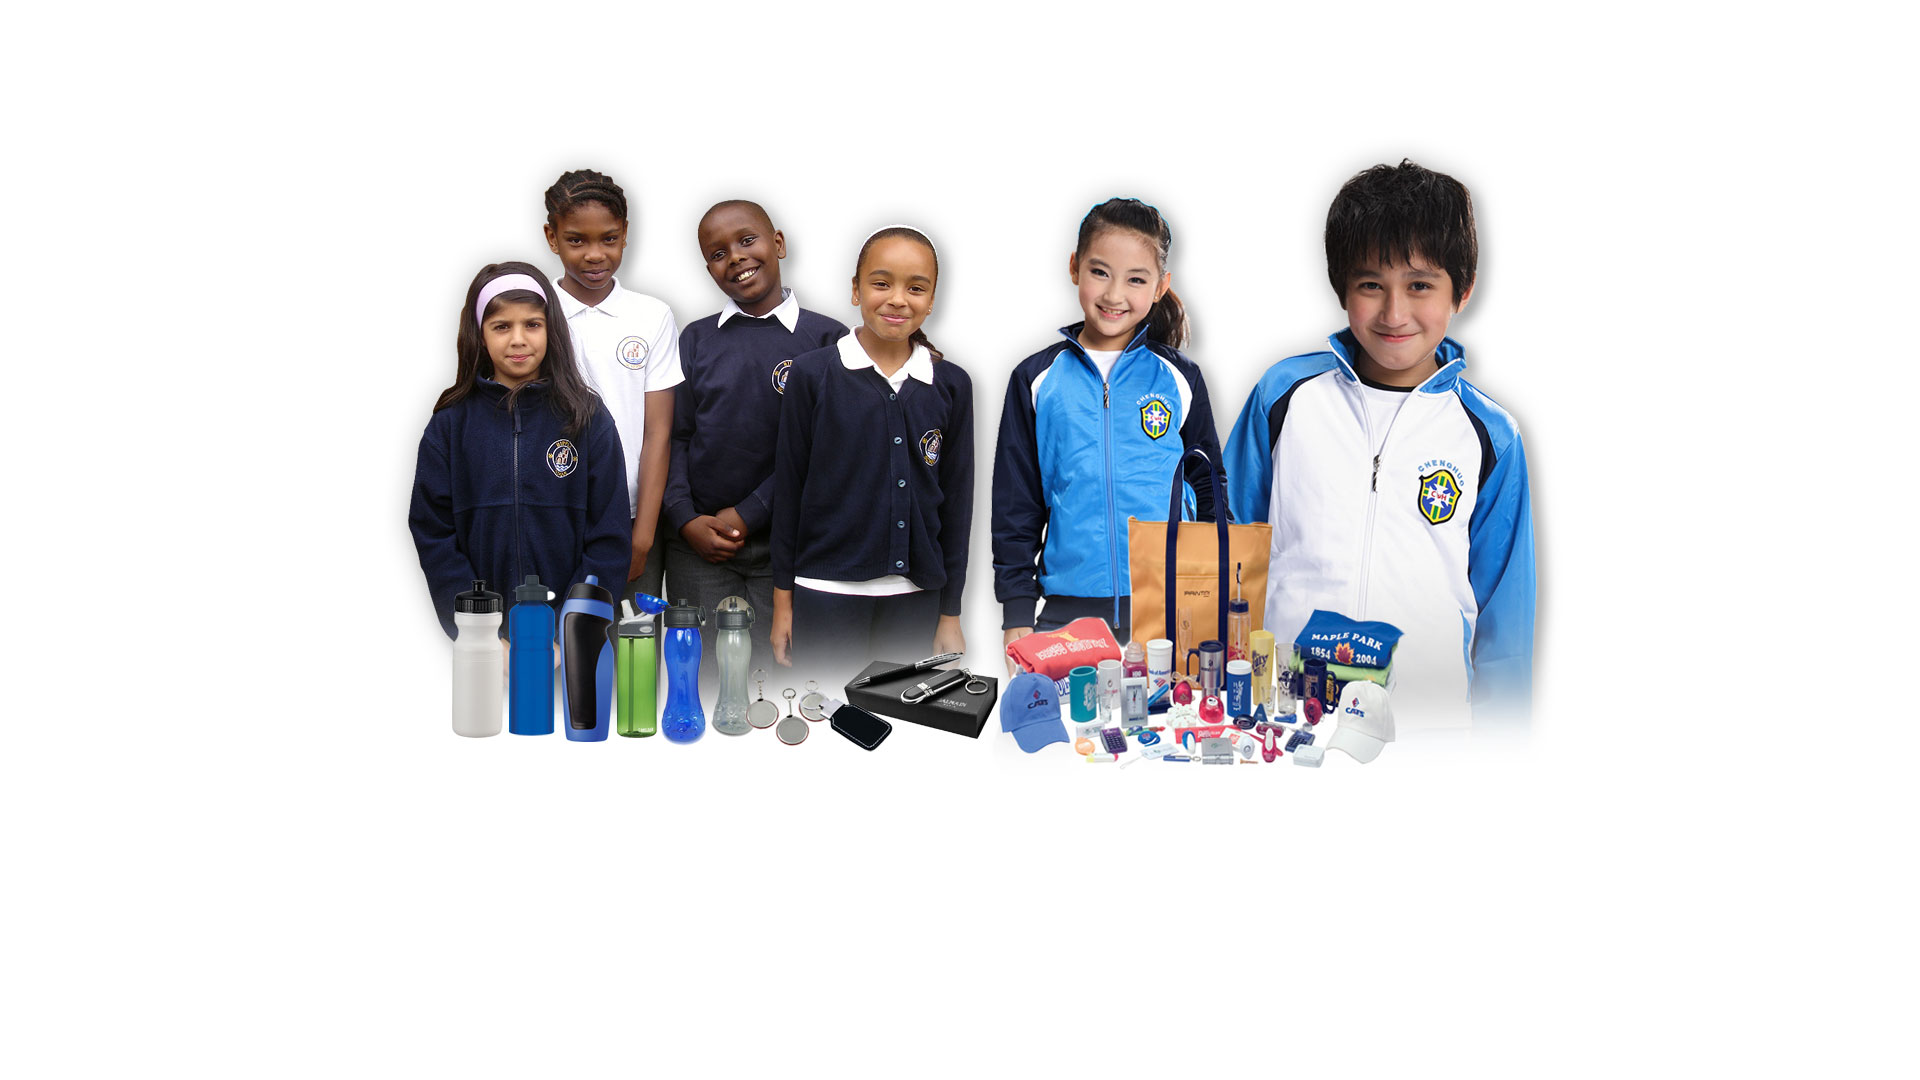
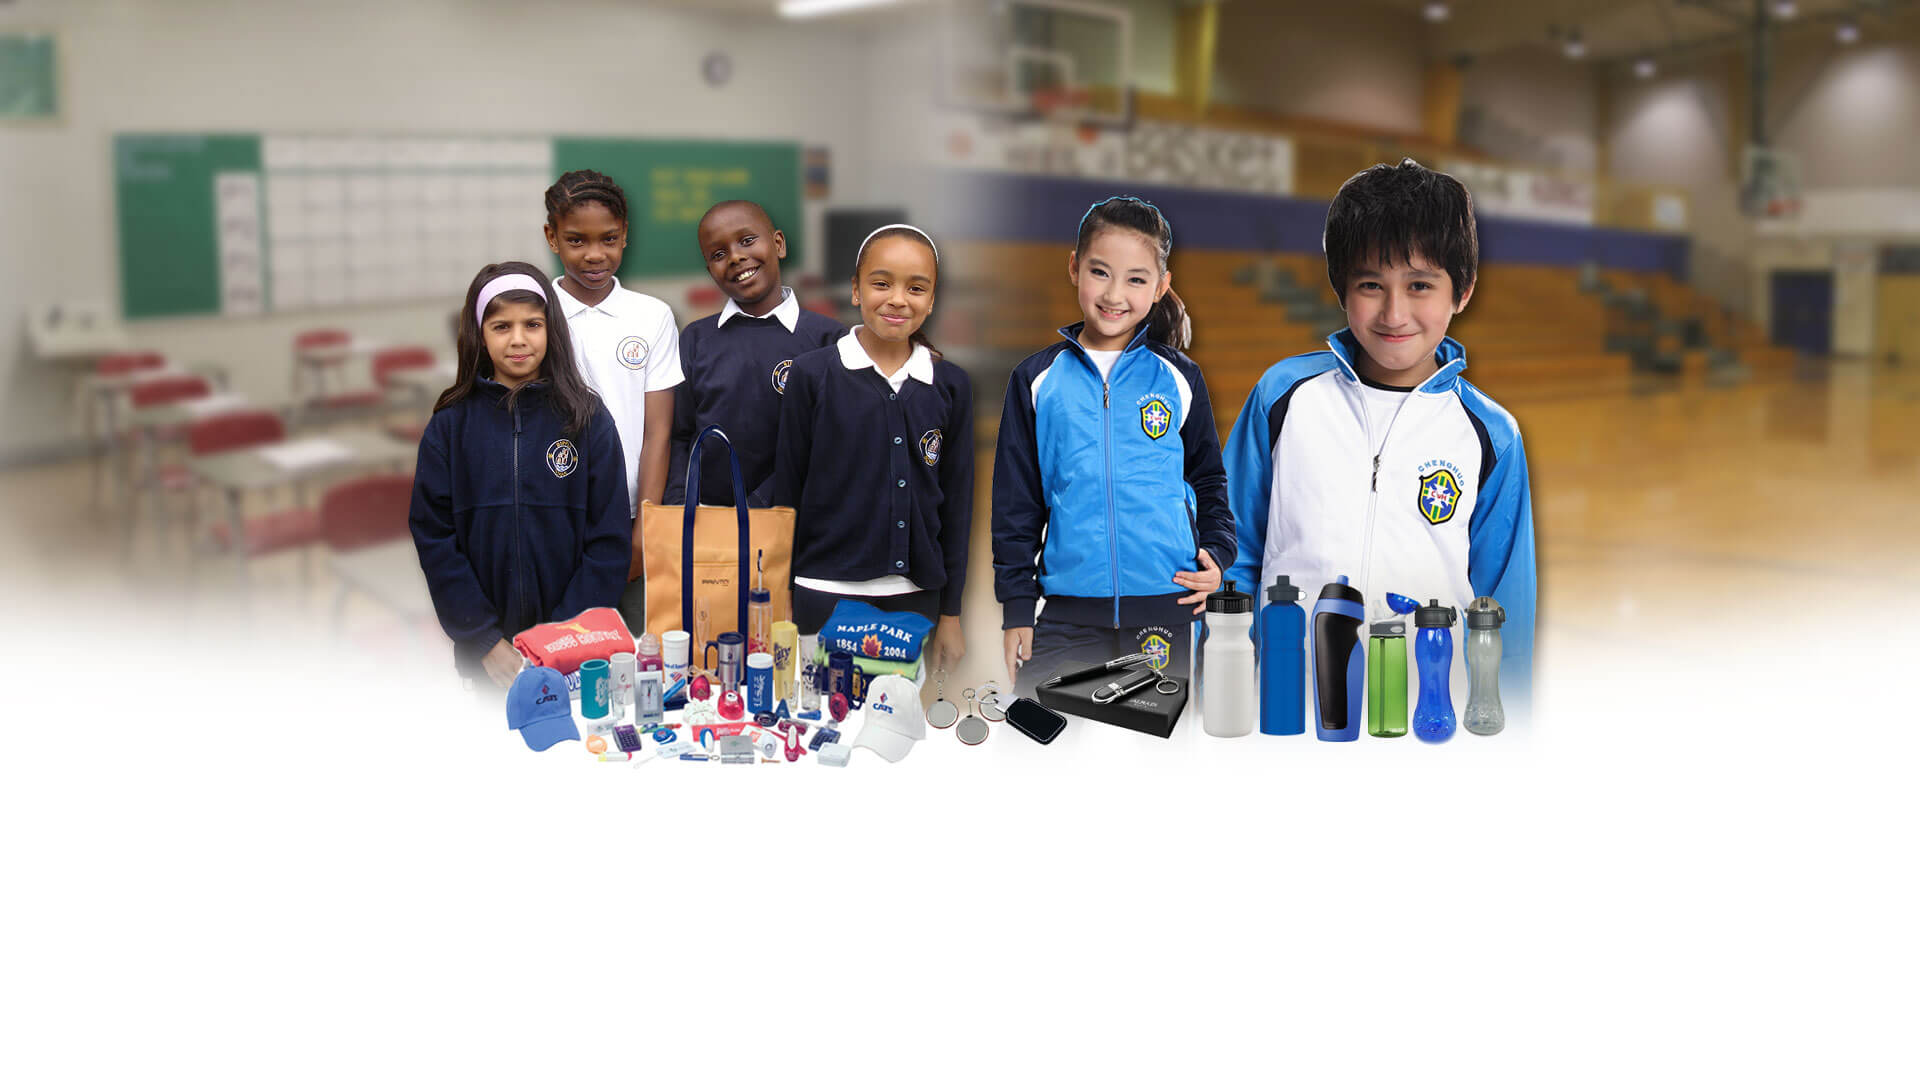
Fixed site-inner full width

diff --git a/css/custom.css b/css/custom.css
@@ -305,7 +305,7 @@ input[type="search"]::-webkit-search-results-button {
 .site-inner,
 .wrap {
 	margin: 0 auto;
-	max-width: 1200px;
+	max-width: 960px;
 }
 
 .site-inner {
@@ -314,6 +314,7 @@ input[type="search"]::-webkit-search-results-button {
 }
 .home .site-inner {
 	height: auto;
+	max-width: 100%;
 }
 
 /* ## Column Widths and Positions
@@ -634,7 +635,7 @@ img.alignright,
 .title-area {
 	float: left;
 	padding: 0;
-	width: 360px;
+	width: 250px;
 }
 
 .header-full-width .title-area {
@@ -690,7 +691,7 @@ img.alignright,
 	/* background: rgba(51,51,51, .5); */
 	float: right;
 	text-align: right;
-	width: 840px;
+	width: 650px;
 }
 
 
@@ -1152,17 +1153,8 @@ li.comment {
     left: 0;
     width: 100%;
 }
-.home-slider::after {
-    content: "";
-    position: fixed;
-    bottom: 0;
-    z-index: 99999;
-    width: 100%;
-    height: 50px;
-    background: #fff;
-}
-.orbit-container .orbit-prev,
-.orbit-container .orbit-next {
+.home .orbit-container .orbit-prev,
+.home .orbit-container .orbit-next {
 	display: inline-block;
 	top: 25%;
 }
@@ -1182,15 +1174,22 @@ li.comment {
     transition: all .2s ease-in-out;
 }
 .orbit-content .entry-title {
-	color: #fff;
-	font-size: 40px;
-	text-shadow: -2px 2px 5px #333;
+	color: rgb(71, 193, 244);
+	font-size: 50px;
+
+	text-shadow: -3px 2px 5px #333;
 	letter-spacing: 1px;
-	font-weight: 700;
+	font-weight: 400;
 }
-.orbit-bullets-container {
+.home .orbit-bullets-container {
 	position: absolute;
 	top: 25%;
+	width: 100%;
+}
+.orbit-bullets-container {
+	position: relative;
+	top: 0;
+
 	width: 100%;
 }
 .orbit-bullets li {
@@ -1575,6 +1574,21 @@ li.comment {
 	.orbit-bullets-container {
 		top: 15%;
 	}
+	.home-slider::after {
+		content: "";
+		position: fixed;
+		bottom: 0;
+		z-index: 99999;
+		width: 100%;
+		height: 50px;
+		background: -moz-linear-gradient(top,  rgba(255,255,255,0) 0%, rgba(255,255,255,0.82) 37%, rgba(255,255,255,1) 60%, rgba(255,255,255,1) 97%); /* FF3.6+ */
+		background: -webkit-gradient(linear, left top, left bottom, color-stop(0%,rgba(255,255,255,0)), color-stop(37%,rgba(255,255,255,0.82)), color-stop(60%,rgba(255,255,255,1)), color-stop(97%,rgba(255,255,255,1))); /* Chrome,Safari4+ */
+		background: -webkit-linear-gradient(top,  rgba(255,255,255,0) 0%,rgba(255,255,255,0.82) 37%,rgba(255,255,255,1) 60%,rgba(255,255,255,1) 97%); /* Chrome10+,Safari5.1+ */
+		background: -o-linear-gradient(top,  rgba(255,255,255,0) 0%,rgba(255,255,255,0.82) 37%,rgba(255,255,255,1) 60%,rgba(255,255,255,1) 97%); /* Opera 11.10+ */
+		background: -ms-linear-gradient(top,  rgba(255,255,255,0) 0%,rgba(255,255,255,0.82) 37%,rgba(255,255,255,1) 60%,rgba(255,255,255,1) 97%); /* IE10+ */
+		background: linear-gradient(to bottom,  rgba(255,255,255,0) 0%,rgba(255,255,255,0.82) 37%,rgba(255,255,255,1) 60%,rgba(255,255,255,1) 97%); /* W3C */
+		filter: progid:DXImageTransform.Microsoft.gradient( startColorstr='#00ffffff', endColorstr='#ffffff',GradientType=0 ); /* IE6-9 */
+	}
 
 }
 
@@ -1582,4 +1596,8 @@ li.comment {
 	.thumbnail {
 		height: 120px;
 	}
+}
+
+.orbit-container .orbit-slide-number {
+    color: #333;
 }

diff --git a/js/spartan.js b/js/spartan.js
@@ -3,8 +3,11 @@ jQuery(document).ready(function($) {
 	var images = ['solar-energy.jpg', 'medical-packs.jpg', 'oem.jpg'];
 	var doc_height = $(document).height();
 
+	var current_url = window.location.protocol + "//" + window.location.host + "/";
 	// Development
-	$.backstretch(srh_custom.template_url + '/images/' + images[Math.floor(Math.random() * images.length)]);
+	// if( !current_url ) {
+		$.backstretch(srh_custom.template_url + '/images/' + images[Math.floor(Math.random() * images.length)]);
+	// }
 
 	// Production
 	// $.backstretch(srh_custom.template_url + '/2014/wp-content/uploads/2015/01/' + images[Math.floor(Math.random() * images.length)]);
@@ -40,14 +43,14 @@ jQuery(document).ready(function($) {
 		var window_scroll = $(window).scrollTop();
 
 		if( window_scroll > site_header ) {
-			$('.orbit-content .column, .orbit-container .orbit-prev, .orbit-container .orbit-next, .orbit-bullets').css('opacity', '0');
+			$('.home .orbit-content .column, .home .orbit-container .orbit-prev, .home .orbit-container .orbit-next, .home .orbit-bullets').css('opacity', '0');
 
 			if( !$('.orbit-timer').hasClass('paused') ) {
 				$('.orbit-timer').click();
 			}
 			animate_menu_in();
 		} else {
-			$('.orbit-content .column, .orbit-container .orbit-prev, .orbit-container .orbit-next, .orbit-bullets').css('opacity', '1');
+			$('.home .orbit-content .column, .home .orbit-container .orbit-prev, .home .orbit-container .orbit-next, .home .orbit-bullets').css('opacity', '1');
 
 			if( $('.orbit-timer').hasClass('paused') ) {
 				$('.orbit-timer').click();

diff --git a/home.php b/home.php
@@ -32,17 +32,17 @@ function srh_slider() {
 		  	<div class="wrap row">
 			    <div class="orbit-content large-12 column">
 			    	<div class="row">
-			    		<div class="large-6 column">
+			    		<div class="large-12 column">
 			    			<h4 class="entry-title">Solar and Renewable Energy</h4>
 			    		</div>
 			    	</div>
 			    </div>		  		
 		  	</div>
-		    <div class="show-for-large-up images slide-1"></div>
-		    <div class="show-for-small-up images slide-1-medium">
+		    <div class="show-for-medium-up images slide-1"></div>
+		    <div class="show-for-small-only images slide-1-medium">
 		    	<img src="<?php echo get_bloginfo('stylesheet_directory'); ?>/images/slide-1-medium.jpg" alt="slide 1" />
 		    </div>
-		    <div class="show-for-small-only images slide-1-small"></div>
+		    <!-- <div class="show-for-small-only images slide-1-small"></div> -->
 		    <!-- <img src="<?php echo get_bloginfo('stylesheet_directory'); ?>/images/Solar-and-Renewable-Energy.jpg" alt="slide 1" /> -->
 		  </li>
 
@@ -50,14 +50,14 @@ function srh_slider() {
 		  	<div class="wrap row">
 			    <div class="orbit-content large-12 column">
 			    	<div class="row">
-			    		<div class="large-6 column">
+			    		<div class="large-12 column">
 			    			<h4 class="entry-title">Medical Consumable</h4>
 			    		</div>
 			    	</div>
 			    </div>		  		
 		  	</div>
-		    <div class="show-for-large-up images slide-2"></div>
-		    <div class="show-for-small-up images slide-2-medium">
+		    <div class="show-for-medium-up images slide-2"></div>
+		    <div class="show-for-small-only images slide-2-medium">
 		    	<img src="<?php echo get_bloginfo('stylesheet_directory'); ?>/images/slide-2-medium.jpg" alt="slide 2" />
 		    </div>
 		    <!-- <div class="show-for-small-only images slide-2-small"></div> -->
@@ -68,14 +68,14 @@ function srh_slider() {
 		  	<div class="wrap row">
 			    <div class="orbit-content large-12 column">
 			    	<div class="row">
-			    		<div class="large-6 column">
+			    		<div class="large-12 column">
 			    			<h4 class="entry-title">Product Sourcing and OEM</h4>
 			    		</div>
 			    	</div>
 			    </div>		  		
 		  	</div>
-		    <div class="show-for-large-up images slide-3"></div>
-		    <div class="show-for-small-up images slide-3-medium">
+		    <div class="show-for-medium-up images slide-3"></div>
+		    <div class="show-for-small-only images slide-3-medium">
 		    	<img src="<?php echo get_bloginfo('stylesheet_directory'); ?>/images/slide-3-medium.jpg" alt="slide 3" />
 		    </div>
 		    <!-- <div class="show-for-small-only images slide-3-small"></div> -->
@@ -136,7 +136,7 @@ function srh_custom_loop() {
 
 	<!-- Set 1 -->
 	<div class="featured-thumbnails row first-set">
-		<div id="about-us" class="large-4 columns">
+		<div id="about-us" class="medium-4 columns">
 			<!-- <div> -->
 				<div class="thumbnail">
 					<!-- Development -->
@@ -149,7 +149,7 @@ function srh_custom_loop() {
 				<h4 class="p-caption">About us</h4>
 			<!-- </div> -->
 		</div>
-		<div id="solar" class="large-4 columns">
+		<div id="solar" class="medium-4 columns">
 				<div class="thumbnail">
 
 					<!-- Development -->
@@ -160,7 +160,7 @@ function srh_custom_loop() {
 				</div>
 			<h4 class="p-caption">Solar and Renewable Energy</h4>
 		</div>
-		<div id="medical" class="large-4 columns">
+		<div id="medical" class="medium-4 columns">
 				<div class="thumbnail">
 
 					<!-- Development -->
@@ -174,7 +174,7 @@ function srh_custom_loop() {
 	</div>
 	<!-- Set 2 -->
 	<div class="featured-thumbnails row secont-set">
-		<div id="sourcing" class="large-4 columns">
+		<div id="sourcing" class="medium-4 columns">
 			<!-- <div> -->
 				<div class="thumbnail">
 
@@ -188,7 +188,7 @@ function srh_custom_loop() {
 				<h4 class="p-caption">Product Sourcing and OEM</h4>
 			<!-- </div> -->
 		</div>
-		<div id="contact" class="large-4 columns">
+		<div id="contact" class="medium-4 columns">
 				<div class="thumbnail">
 
 					<!-- Development -->
@@ -199,7 +199,7 @@ function srh_custom_loop() {
 				</div>
 			<h4 class="p-caption">Contact Us</h4>
 		</div>
-		<div id="customer" class="large-4 columns">
+		<div id="customer" class="medium-4 columns">
 				<div class="thumbnail">
 
 					<!-- Development -->
